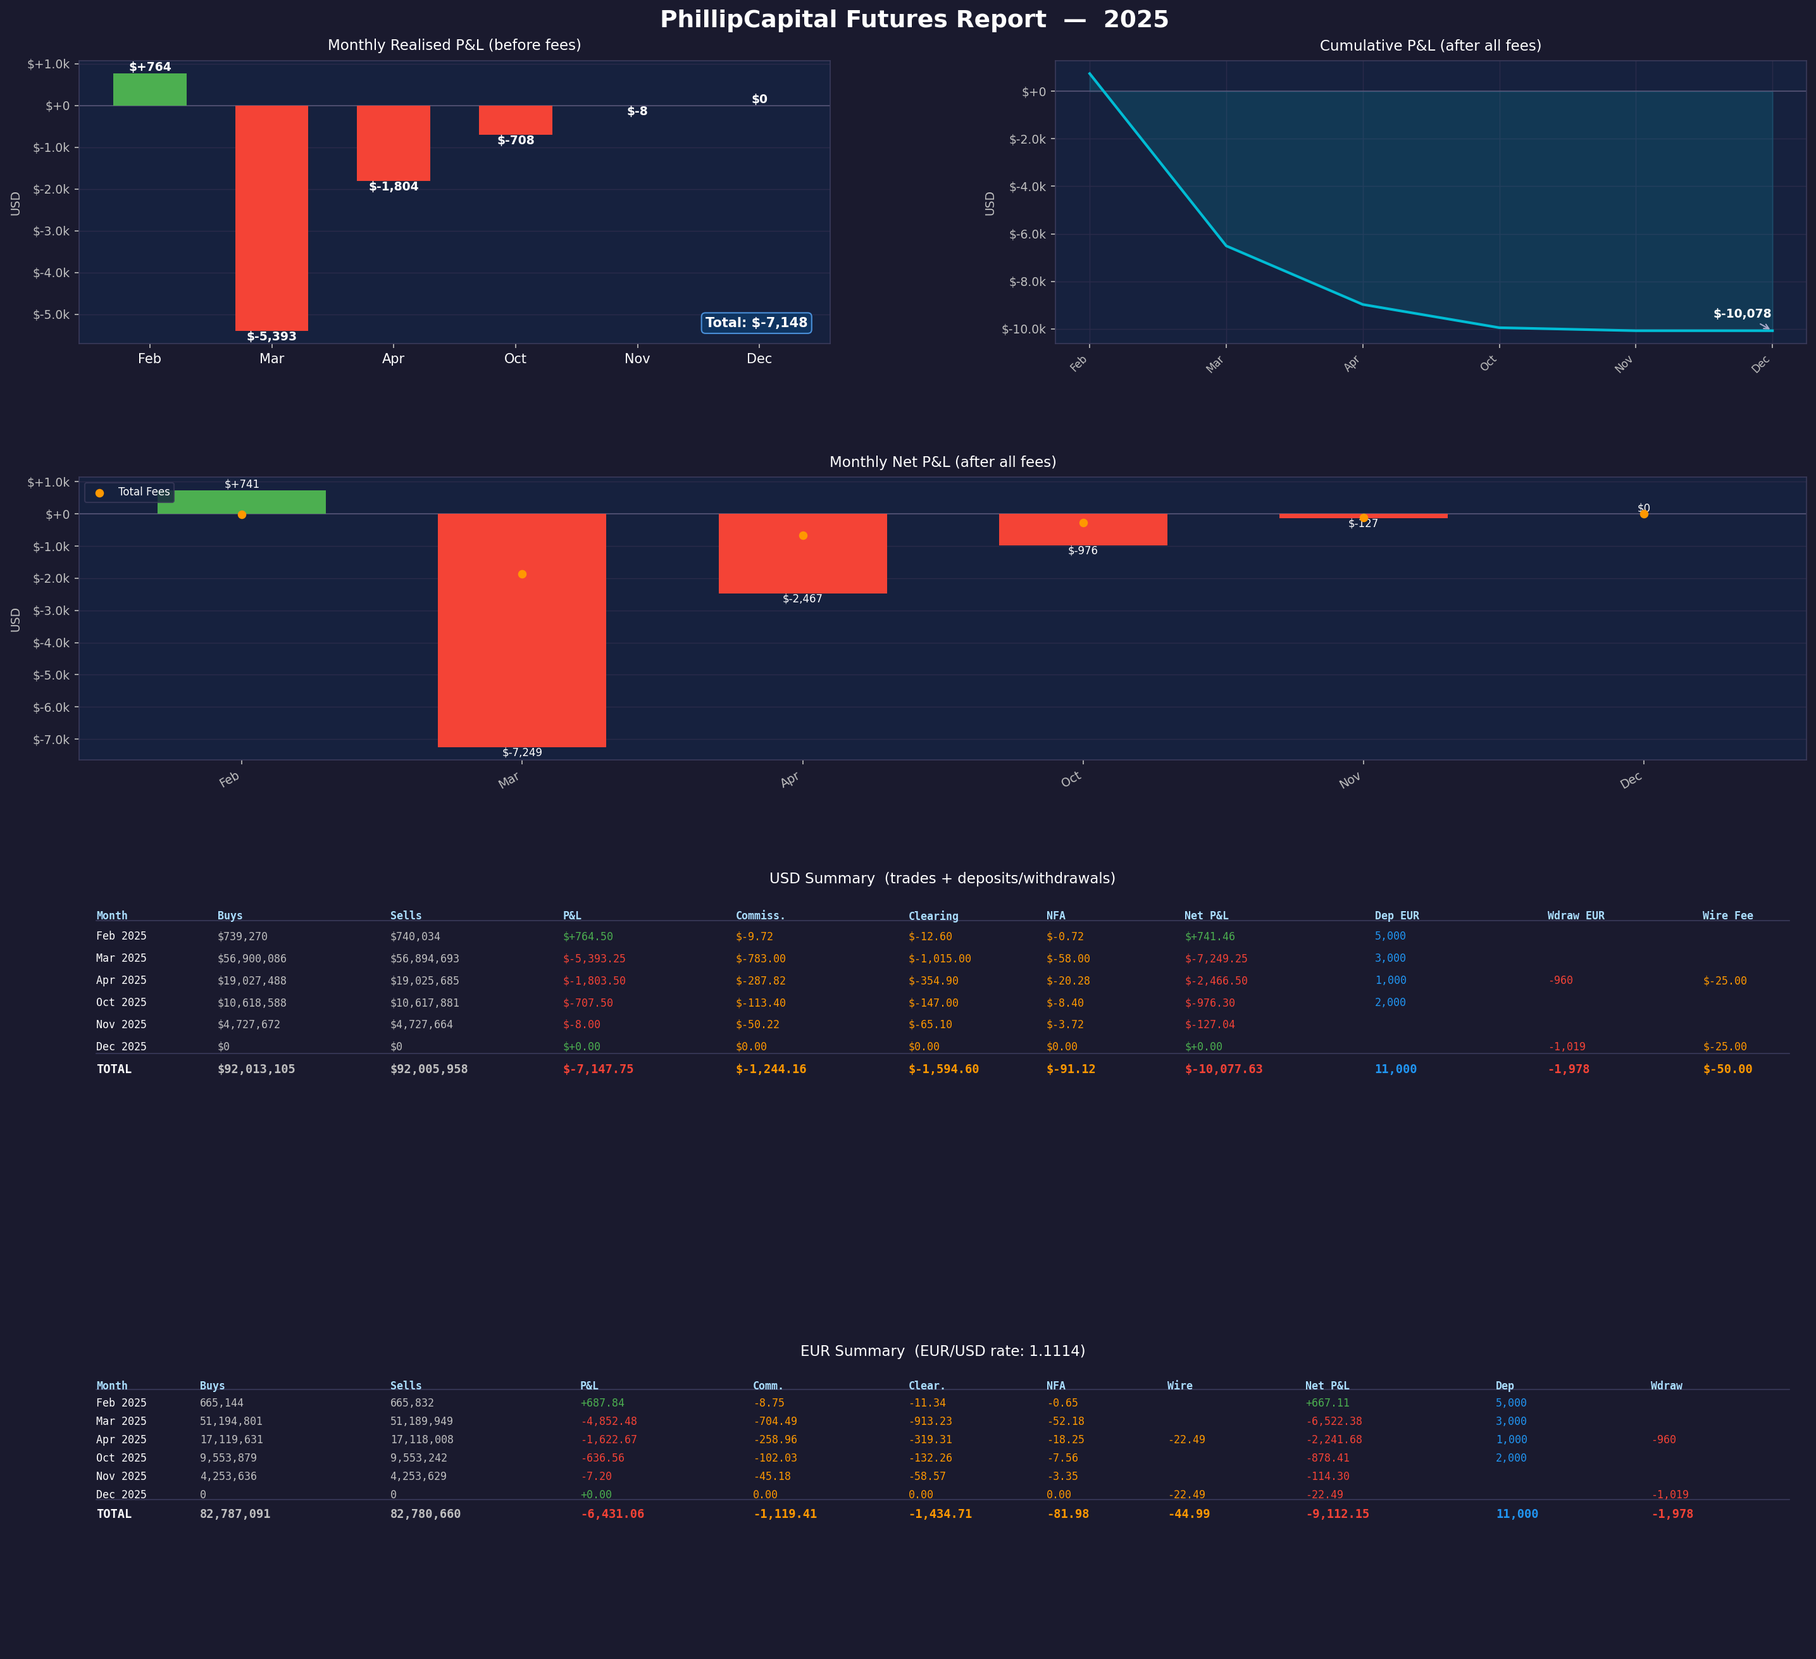
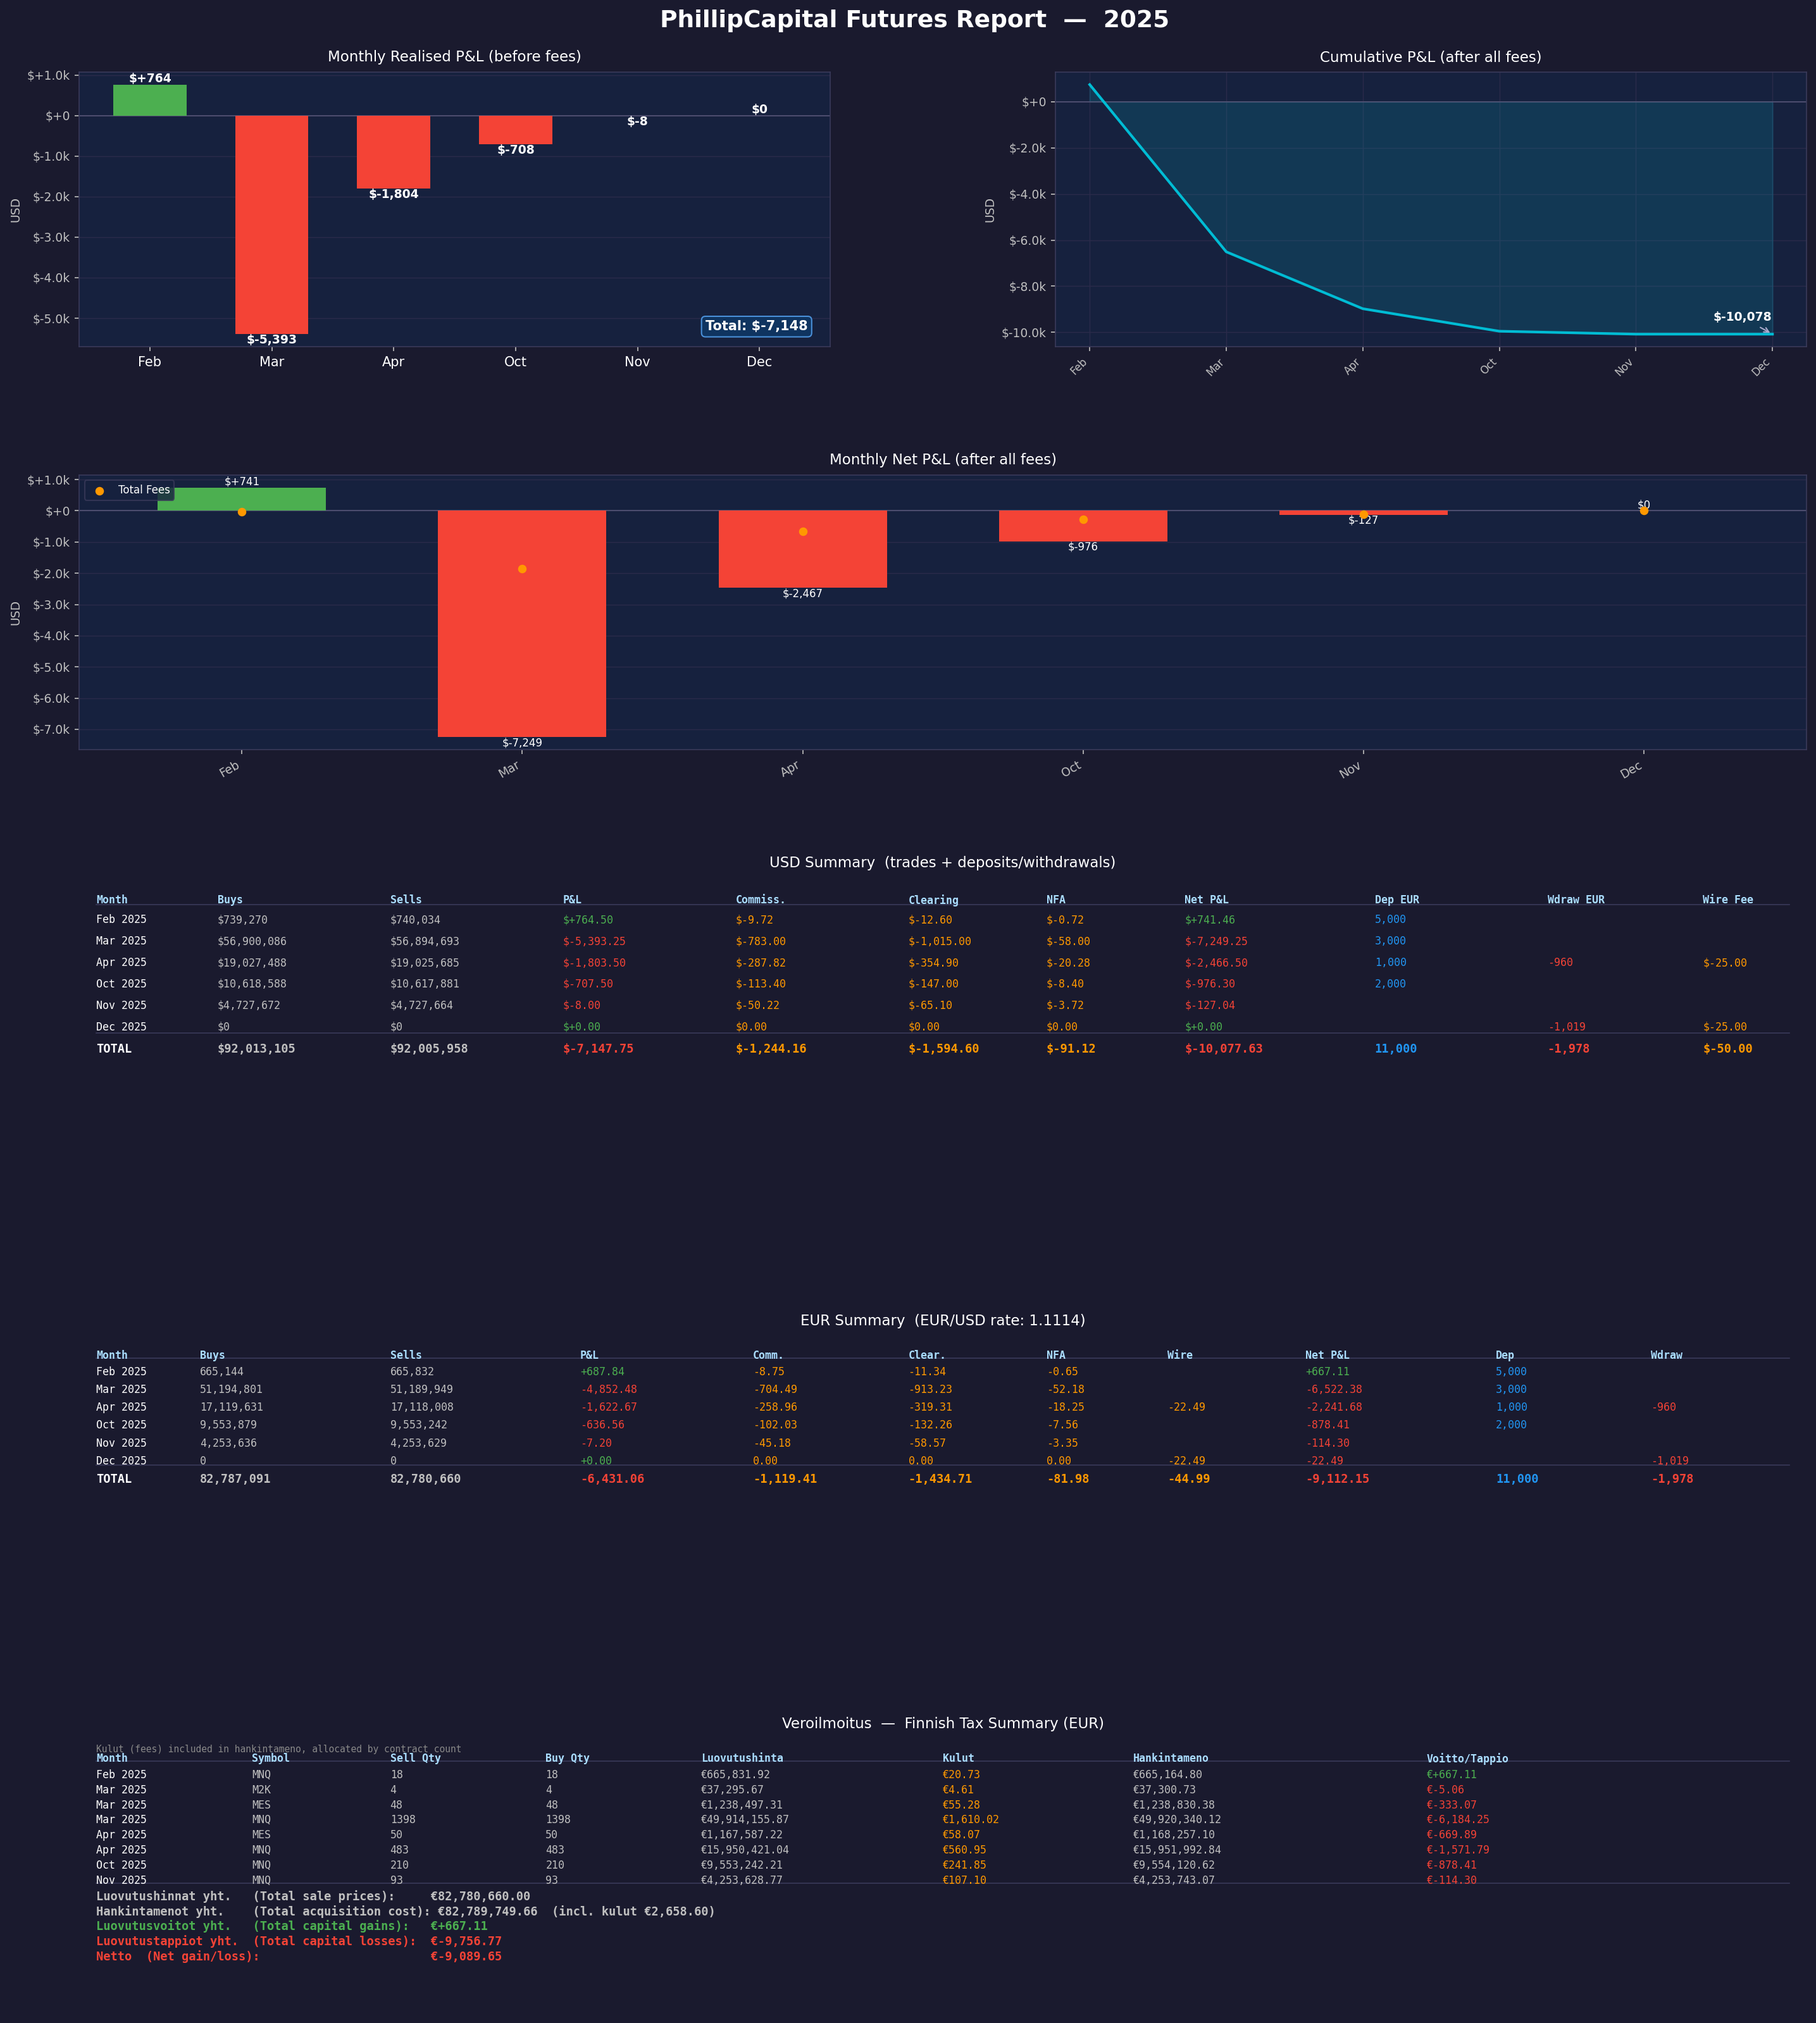
Add Finnish tax summary (veroilmoitus) with fees folded into hankintameno
Add per-disposal Finnish tax calculation (luovutushinnat, luovutusvoitot,
luovutustappiot) in EUR. Fees (commission, clearing, NFA, wire) are allocated
proportionally by contract count and added to hankintameno per Finnish tax
rules. Includes both console output and PNG report panel.

diff --git a/parser.py b/parser.py
@@ -395,6 +395,97 @@ def print_table(data, year, eur_rate, multipliers):
     print(f"{'TOTAL':>8} | {totals['buys']*to_eur:>16,.2f} | {totals['sells']*to_eur:>16,.2f} | {totals['pnl']*to_eur:>+14,.2f} | {totals['commission']*to_eur:>12,.2f} | {totals['clearing_fee']*to_eur:>10,.2f} | {totals['nfa_fee']*to_eur:>8,.2f} | {totals['wire_fees_usd']*to_eur:>10,.2f} | {total_net_usd*to_eur:>+14,.2f} | {totals['deposits_eur']:>12,.2f} | {totals['withdrawals_eur']:>+14,.2f}")
 
 
+def calc_finnish_tax(data, year, eur_rate, multipliers):
+    """Calculate Finnish tax figures (veroilmoitus) per disposal.
+
+    Each symbol/month combination with both buys and sells is one disposal (luovutus).
+    Fees (commission, clearing, NFA, wire) are allocated proportionally by contract
+    count and added to hankintameno (acquisition cost), per Finnish tax rules.
+    Returns a list of disposal dicts and the three summary totals.
+    """
+    to_eur = 1.0 / eur_rate
+    months = sorted(data.keys())
+    disposals = []
+
+    for month in months:
+        d = data[month]
+        label = f"{MONTH_NAMES.get(month[:2], month[:2])} {year}"
+
+        # Month's total fees in EUR
+        month_fees_eur = abs(d["commission"] + d["clearing_fee"] + d["nfa_fee"] + d["wire_fees_usd"]) * to_eur
+
+        # Total contracts traded this month (for proportional fee allocation)
+        total_contracts = sum(c["buy_qty"] + c["sell_qty"] for c in d["contracts"].values())
+
+        for sym in sorted(d["contracts"].keys()):
+            c = d["contracts"][sym]
+            mult = multipliers.get(sym, 1)
+            buys_usd = c["buys"] * mult
+            sells_usd = c["sells"] * mult
+
+            if c["sell_qty"] == 0:
+                continue  # no disposal if nothing sold
+
+            # Allocate fees proportionally by contract count
+            sym_contracts = c["buy_qty"] + c["sell_qty"]
+            kulut_eur = month_fees_eur * (sym_contracts / total_contracts) if total_contracts > 0 else 0.0
+
+            # Luovutushinta = sale proceeds
+            # Hankintameno = acquisition cost + allocated fees (kulut)
+            luovutushinta_eur = sells_usd * to_eur
+            hankintameno_eur = buys_usd * to_eur + kulut_eur
+            tulos_eur = luovutushinta_eur - hankintameno_eur
+
+            disposals.append({
+                "month": label,
+                "symbol": sym,
+                "buy_qty": c["buy_qty"],
+                "sell_qty": c["sell_qty"],
+                "luovutushinta_eur": luovutushinta_eur,
+                "hankintameno_eur": hankintameno_eur,
+                "kulut_eur": kulut_eur,
+                "tulos_eur": tulos_eur,
+            })
+
+    luovutushinnat = sum(d["luovutushinta_eur"] for d in disposals)
+    luovutusvoitot = sum(d["tulos_eur"] for d in disposals if d["tulos_eur"] > 0)
+    luovutustappiot = sum(d["tulos_eur"] for d in disposals if d["tulos_eur"] < 0)
+
+    return disposals, luovutushinnat, luovutusvoitot, luovutustappiot
+
+
+def print_finnish_tax(data, year, eur_rate, multipliers):
+    """Print Finnish tax summary (veroilmoitus) to the console."""
+    disposals, luovutushinnat, luovutusvoitot, luovutustappiot = \
+        calc_finnish_tax(data, year, eur_rate, multipliers)
+
+    if not disposals:
+        print("\nNo disposals found for Finnish tax calculation.")
+        return
+
+    total_kulut = sum(d["kulut_eur"] for d in disposals)
+
+    print(f"\n{'':=^140}")
+    print(f"{'FINNISH TAX SUMMARY  /  VEROILMOITUS  (EUR)':^140}")
+    print(f"{'':=^140}")
+    print(f"\n  EUR/USD rate: {eur_rate:.4f}")
+    print(f"  Kulut (fees) are included in hankintameno, allocated proportionally by contract count.")
+    print(f"\n{'MONTH':>8} | {'SYM':>5} | {'SELL QTY':>8} | {'BUY QTY':>8} | {'Luovutushinta':>16} | {'Kulut':>12} | {'Hankintameno':>16} | {'Voitto/Tappio':>16}")
+    print("-" * 140)
+
+    for d in disposals:
+        print(f"{d['month']:>8} | {d['symbol']:>5} | {d['sell_qty']:>8} | {d['buy_qty']:>8} | {d['luovutushinta_eur']:>16,.2f} | {d['kulut_eur']:>12,.2f} | {d['hankintameno_eur']:>16,.2f} | {d['tulos_eur']:>+16,.2f}")
+
+    print("-" * 140)
+    total_hankintameno = sum(d["hankintameno_eur"] for d in disposals)
+    print(f"\n  Luovutushinnat yhteensä   (Total sale prices)    : {luovutushinnat:>16,.2f} EUR")
+    print(f"  Hankintamenot yhteensä    (Total acquisition cost): {total_hankintameno:>16,.2f} EUR  (incl. kulut {total_kulut:,.2f})")
+    print(f"  Luovutusvoitot yhteensä   (Total capital gains)   : {luovutusvoitot:>+16,.2f} EUR")
+    print(f"  Luovutustappiot yhteensä  (Total capital losses)  : {luovutustappiot:>+16,.2f} EUR")
+    print(f"  Netto (voitot + tappiot)  (Net gain/loss)         : {luovutusvoitot + luovutustappiot:>+16,.2f} EUR")
+    print()
+
+
 def generate_report(data, year, pdf_path, eur_rate, multipliers):
     """Generate a PNG dashboard report."""
     months = sorted(data.keys())
@@ -448,18 +539,18 @@ def generate_report(data, year, pdf_path, eur_rate, multipliers):
         return f"${x/1000:+.1f}k" if abs(x) >= 1000 else f"${x:+.0f}"
 
     # ── Layout ───────────────────────────────────────────────────────────────
-    fig = plt.figure(figsize=(20, 18), facecolor="#1a1a2e")
+    fig = plt.figure(figsize=(20, 22), facecolor="#1a1a2e")
     fig.suptitle(
         f"PhillipCapital Futures Report  —  {year}",
         fontsize=18, fontweight="bold", color="white", y=0.99,
     )
 
     gs = gridspec.GridSpec(
-        4, 2, figure=fig,
+        5, 2, figure=fig,
         hspace=0.45, wspace=0.3,
         left=0.06, right=0.97,
         top=0.96, bottom=0.03,
-        height_ratios=[1, 1, 1.2, 1.0],
+        height_ratios=[1, 1, 1.2, 1.0, 1.0],
     )
 
     ax_bar = fig.add_subplot(gs[0, 0])   # Monthly P&L bars
@@ -467,8 +558,9 @@ def generate_report(data, year, pdf_path, eur_rate, multipliers):
     ax_wf  = fig.add_subplot(gs[1, :])   # Net P&L after fees waterfall
     ax_sum = fig.add_subplot(gs[2, :])   # USD Summary table
     ax_eur = fig.add_subplot(gs[3, :])   # EUR Summary table
+    ax_tax = fig.add_subplot(gs[4, :])   # Finnish tax summary
 
-    for ax in (ax_bar, ax_cum, ax_wf, ax_sum, ax_eur):
+    for ax in (ax_bar, ax_cum, ax_wf, ax_sum, ax_eur, ax_tax):
         ax.set_facecolor(PANEL_BG)
         ax.tick_params(colors=TICK_COL, labelsize=9)
         for spine in ax.spines.values():
@@ -691,6 +783,72 @@ def generate_report(data, year, pdf_path, eur_rate, multipliers):
                     color=color, fontsize=9, va="top", fontweight="bold",
                     family="monospace")
 
+    # ── 6. Finnish Tax Summary (Veroilmoitus) ──────────────────────────────
+    ax_tax.axis("off")
+    ax_tax.set_title("Veroilmoitus  —  Finnish Tax Summary (EUR)", color="white", fontsize=11, pad=8)
+
+    disposals, luovutushinnat, luovutusvoitot, luovutustappiot = \
+        calc_finnish_tax(data, year, eur_rate, multipliers)
+
+    total_kulut = sum(d["kulut_eur"] for d in disposals)
+    total_hankintameno = sum(d["hankintameno_eur"] for d in disposals)
+
+    tax_cols = ["Month", "Symbol", "Sell Qty", "Buy Qty", "Luovutushinta", "Kulut", "Hankintameno", "Voitto/Tappio"]
+    tax_x = [0.01, 0.10, 0.18, 0.27, 0.36, 0.50, 0.61, 0.78]
+    y_start_t = 0.95
+
+    # Note about fees
+    ax_tax.text(0.01, y_start_t + 0.03, "Kulut (fees) included in hankintameno, allocated by contract count",
+                transform=ax_tax.transAxes, color="#888888", fontsize=7, va="top", family="monospace")
+
+    for ci, label in enumerate(tax_cols):
+        ax_tax.text(tax_x[ci], y_start_t, label,
+                    transform=ax_tax.transAxes,
+                    color="#aaddff", fontsize=8, fontweight="bold",
+                    va="top", family="monospace")
+
+    ax_tax.plot([0.01, 0.99], [y_start_t - 0.03, y_start_t - 0.03],
+                color="#3a3a5a", linewidth=0.8, transform=ax_tax.transAxes)
+
+    tax_row_h = 0.055
+    for ri, disp in enumerate(disposals):
+        y = y_start_t - 0.06 - ri * tax_row_h
+        result_color = pos_color if disp["tulos_eur"] >= 0 else neg_color
+
+        vals = [
+            (disp["month"], "white"),
+            (disp["symbol"], TICK_COL),
+            (str(disp["sell_qty"]), TICK_COL),
+            (str(disp["buy_qty"]), TICK_COL),
+            (f"\u20ac{disp['luovutushinta_eur']:,.2f}", TICK_COL),
+            (f"\u20ac{disp['kulut_eur']:,.2f}", "#FF9800"),
+            (f"\u20ac{disp['hankintameno_eur']:,.2f}", TICK_COL),
+            (f"\u20ac{disp['tulos_eur']:+,.2f}", result_color),
+        ]
+        for ci, (txt, color) in enumerate(vals):
+            ax_tax.text(tax_x[ci], y, txt,
+                        transform=ax_tax.transAxes,
+                        color=color, fontsize=8, va="top", family="monospace")
+
+    # Summary totals
+    y_totals = y_start_t - 0.06 - len(disposals) * tax_row_h
+    ax_tax.plot([0.01, 0.99], [y_totals + tax_row_h * 0.45, y_totals + tax_row_h * 0.45],
+                color="#3a3a5a", linewidth=0.8, transform=ax_tax.transAxes)
+
+    summary_lines = [
+        (f"Luovutushinnat yht.   (Total sale prices):     \u20ac{luovutushinnat:,.2f}", TICK_COL),
+        (f"Hankintamenot yht.    (Total acquisition cost): \u20ac{total_hankintameno:,.2f}  (incl. kulut \u20ac{total_kulut:,.2f})", TICK_COL),
+        (f"Luovutusvoitot yht.   (Total capital gains):   \u20ac{luovutusvoitot:+,.2f}", pos_color),
+        (f"Luovutustappiot yht.  (Total capital losses):  \u20ac{luovutustappiot:+,.2f}", neg_color),
+        (f"Netto  (Net gain/loss):                        \u20ac{luovutusvoitot + luovutustappiot:+,.2f}",
+         pos_color if (luovutusvoitot + luovutustappiot) >= 0 else neg_color),
+    ]
+    for si, (txt, color) in enumerate(summary_lines):
+        ax_tax.text(0.01, y_totals - si * tax_row_h, txt,
+                    transform=ax_tax.transAxes,
+                    color=color, fontsize=9, va="top", fontweight="bold",
+                    family="monospace")
+
     # ── Save ─────────────────────────────────────────────────────────────────
     script_dir = os.path.dirname(os.path.abspath(__file__)) or os.getcwd()
     out_path = os.path.join(script_dir, f"phillipcapital_report_{year}.png")
@@ -875,4 +1033,5 @@ with open(debug_path, "a") as dbg:
 print(f"Debug output written to: {debug_path}")
 
 print_table(data, year, eur_rate, multipliers)
+print_finnish_tax(data, year, eur_rate, multipliers)
 generate_report(data, year, pdf_file, eur_rate, multipliers)
